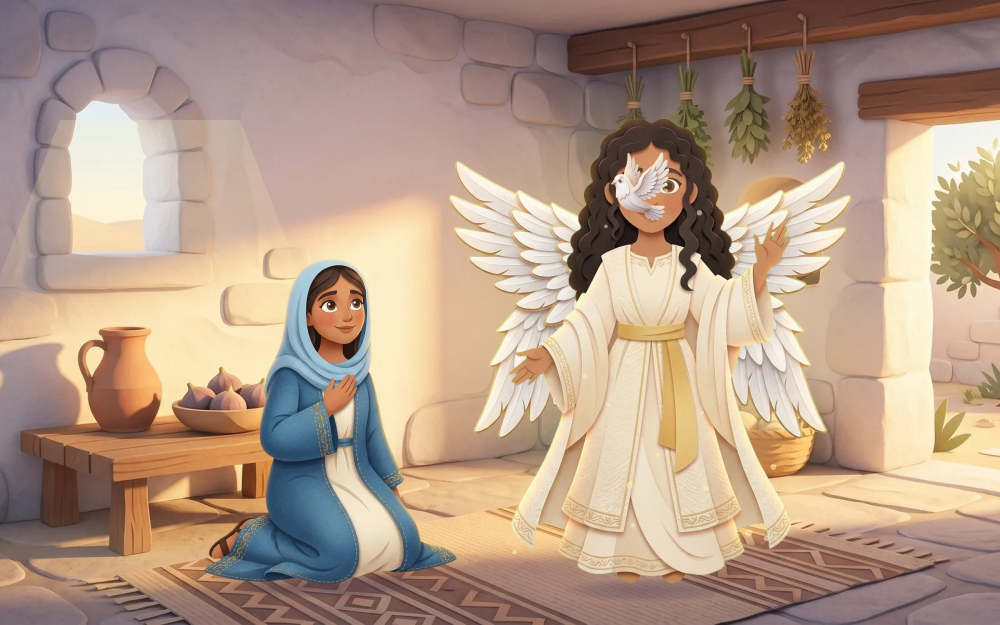
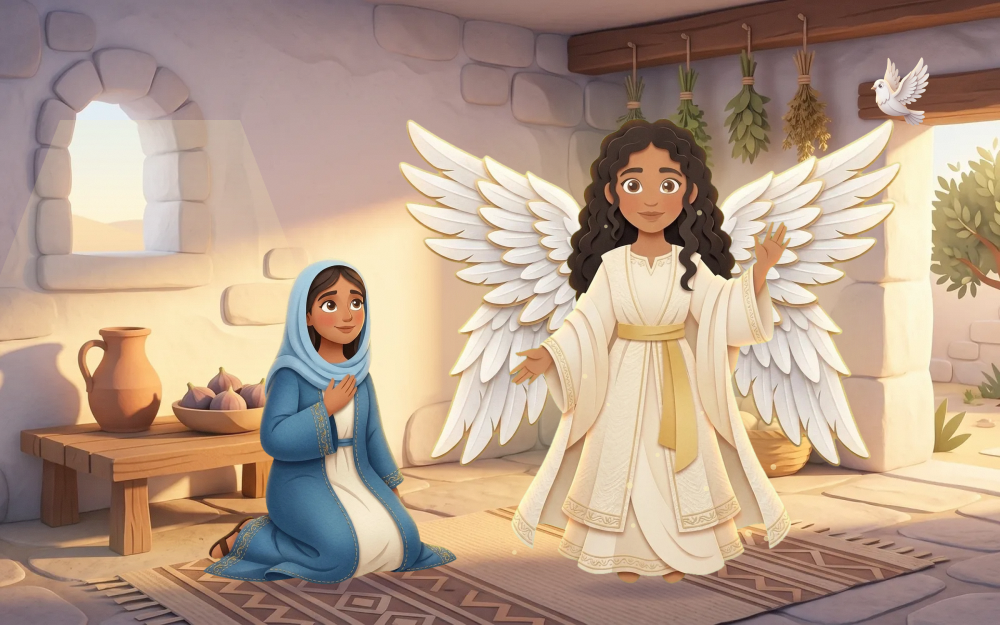
Christmas page 1: Gabriel's wings larger and at the shoulders, dove path above the heads

Changed region(s): [[0.713, 0.0912, 0.93, 0.76], [0.403, 0.1824, 0.589, 0.76], [0.589, 0.2432, 0.682, 0.3648]]

diff --git a/src/scenes/christmas.tsx b/src/scenes/christmas.tsx
@@ -166,8 +166,8 @@ export function AngelVisitsMary({ found }: SceneArtProps) {
         x={650}
         y={585}
         scale={0.52}
-        wingScale={0.4}
-        wingY={440}
+        wingScale={0.5}
+        wingY={468}
         eyes={{
           points: [
             [236, 126],
@@ -197,8 +197,8 @@ export function AngelVisitsMary({ found }: SceneArtProps) {
           ay: L["dove-down"].h * 0.45,
           s: 0.23,
         }}
-        x={640}
-        y={190}
+        x={900}
+        y={95}
         flip
         motion="a-fly"
         delay={-14}

diff --git a/docs/evidence/2026-09-18-christmas-story/record.md b/docs/evidence/2026-09-18-christmas-story/record.md
@@ -151,3 +151,9 @@ the credit outage, then done). Motion check 33 clean; 148 tests.
   "slightly flapping forward and backwards" after a pure up-and-down try). Daniel's
   angel keeps the forward-and-back beat. `shepherds-midbeat-phone.png`
   (wings scrubbed to mid-beat).
+- **Page 1 wings "still need tuning":** they sat small and low (tips at
+  shoulder height; the original design rose past the head) and the dove's
+  flight path crossed Gabriel's face. Wings 0.4 → 0.5 with the joint at
+  the shoulders (tips now level with the top of the head, span 266 px on a
+  477 px phone frame); the dove's path moved up to y 95 from the door
+  side. `gabriel-midbeat-phone.png`.
